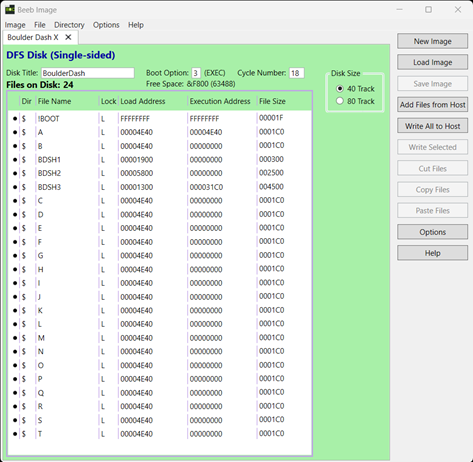
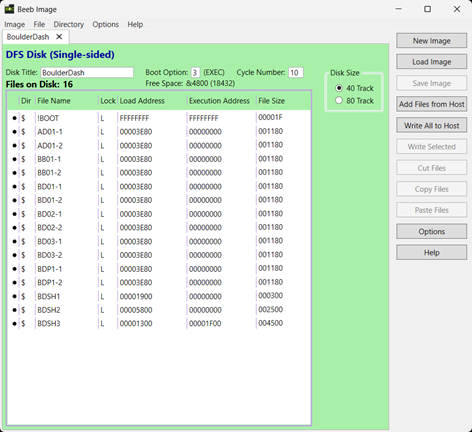
Documentation and utility updates

diff --git a/utilities/BDcavegen.py b/utilities/BDcavegen.py
@@ -30,21 +30,9 @@ import os
 from os import path
 import json
 import numpy as np
-from distutils.dir_util import copy_tree
-import image
 
-SPRITES_FILE = ""
-#SPRITES_FILE = "Bubble_Bobble_sprites.bin"
-#SPRITES_FILE = "Pacman_sprites.bin"
-#SPRITES_FILE = "Easter_sprites.bin"
-#COPY_FOLDER_FOR_ASM_BUILD = "caves/BoulderDashP1"
-#COPY_FOLDER_FOR_ASM_BUILD = "caves/BoulderDash01"
-#COPY_FOLDER_FOR_ASM_BUILD = "caves/BoulderDash02"
-#COPY_FOLDER_FOR_ASM_BUILD = "caves/BoulderDash03"
-COPY_FOLDER_FOR_ASM_BUILD = ""
-ATTEMPT_BD_COLOUR_MAP = False  #Attempt to map the colours in the BDCFF or use the config file scheme per cave
-TIDY_OUTPUT_FOLDER = True
-MOVE_BD_TO_DONE_FOLDER = True
+ATTEMPT_BD_COLOUR_MAP = True  #Attempt to map the colours in the BDCFF or use the config file scheme per cave
+MOVE_BD_TO_DONE_FOLDER = True  #True move to "done" folder, False leaves the source BDCFF file where it is
 
 ################################################################################
 #region Helper functions
@@ -467,20 +455,6 @@ def generate_caves(all_input_lines, output_subfolder):
         json.dump(output_all_caves_json, outfile, indent=4, sort_keys=True)
 
 #endregion
-################################################################################
-
-def poke_source_code_sprites(bd_sprites_file, sprites_address, output_subfolder):
-
-    #Open the source code file and poke the values into the required addresses
-    input_source_file = open(path.join(output_subfolder, "BDSH3"), "r+b")  #Open the file as binary
-
-    with open(bd_sprites_file, "rb") as input_sprites_file:  #Open sprites file as binary and read contents
-        prog_bytes = input_sprites_file.read()
-
-    input_source_file.seek(sprites_address)  #Navigate to the start address
-    input_source_file.write(prog_bytes)  #Replace the bytes from this position with the list of values
-
-    input_source_file.close()
 
 ################################################################################
 # Main Routine
@@ -488,6 +462,7 @@ if __name__ == '__main__':
 
     ### Config and file paths
     base_path = path.dirname(path.abspath(__file__))
+    base_path = path.join(base_path, "..")
     config_file = open(path.join(base_path, "config", "config.json"))
     config_settings = json.load(config_file)
     element_map = config_settings["element_map"]
@@ -518,8 +493,7 @@ if __name__ == '__main__':
     for a in parameter_list:
         addresses[a] = parameter_list[a]["address"]
 
-    BD_code_folder = path.join(base_path, "code")
-    BD_files_folder = path.join(base_path, "convert")
+    BD_files_folder = path.join(base_path, "bdcff_conversions")
 
     ### Process each BD file in the conversion folder
     for filename in os.listdir(BD_files_folder):
@@ -527,7 +501,7 @@ if __name__ == '__main__':
         if path.isfile(path.join(BD_files_folder, filename)) and filename[-2:].upper() == "BD":
 
             BD_filename = filename.split('.')[0]  #e.g. ArnoDash01 without the ".bd" extension
-            output_subfolder = path.join(base_path, "output", BD_filename)
+            output_subfolder = path.join(base_path, "build", BD_filename)
             if not os.path.exists(output_subfolder):
                 print(f"Creating output subfolder {output_subfolder}")
                 os.mkdir(output_subfolder)
@@ -542,56 +516,11 @@ if __name__ == '__main__':
             print(f"Generating caves for {BD_filename}")
             generate_caves(all_input_lines, output_subfolder)
 
-            #Shortcut way to get caves into next compiled asm build / ssd build
-            if COPY_FOLDER_FOR_ASM_BUILD != "":
-                copy_tree(output_subfolder, path.join(base_path, COPY_FOLDER_FOR_ASM_BUILD))
-
-            #Copy the source code for updating sprites and creation of SSD file
-            copy_tree(BD_code_folder, output_subfolder)
-
-            #Replace sprites if required
-            if SPRITES_FILE != "":
-                print(f"Updating sprites for {BD_filename} using {SPRITES_FILE}")
-                #Note sprites are defined at the start of the file (position 0)
-                bd_sprites_file = path.join(base_path, "sprites", SPRITES_FILE)
-                poke_source_code_sprites(bd_sprites_file, 0, output_subfolder)
-
             #Move BD file and cave definition json file to completed folder
             print(f"Completing definitions for {BD_filename}")
             BD_files_complete_folder = path.join(BD_files_folder, "done")
             if MOVE_BD_TO_DONE_FOLDER:
                 os.replace(input_file_name, path.join(BD_files_complete_folder, BD_filename + ".bd"))
             os.replace(path.join(output_subfolder, "cavedef.json"), path.join(BD_files_complete_folder, "json", BD_filename + ".json"))
-
-            #Create SSD file
-            print(f"Creating SSD for {BD_filename}")
-            ssd_filepath = path.join(base_path, "output", "ssd", BD_filename + ".ssd")
-            create_ssd(BD_filename, ssd_filepath, 40, 3)  #SSD with file name as title, 40 tracks and bootable
-            output_subfolder_relpath = path.join("output", BD_filename)
-            os.chdir(output_subfolder_relpath)
-
-            #Create INF files for each source file using config data (INF files needed for inserting into SSD)
-            for file in ssd_file_settings:
-                if path.exists(file):
-                    values = ssd_file_settings[file]
-                    with open(file + ".inf", 'w') as f:
-                        f.write("$.{: <9} {:0>8} {:0>8} L {:0>8}".format(file, values['load'], values['exec'], values['size']))
-
-            #Insert each file into the SSD in order per the config file
-            #This sequence is essential for the SSD to be editable using the Boulder Dash Editor
-            disk_image = image.DiskImage()
-            disk_image.set_disk(ssd_filepath)
-
-            for file in ssd_file_settings:
-                if path.exists(file):
-                    print(f"  Inserting {file}")
-                    disk_image.insert(file)
-
-            os.chdir("../../")
-            if TIDY_OUTPUT_FOLDER:
-                print(f"Tidying up output files for {BD_filename}")
-                for file in os.listdir(output_subfolder_relpath):
-                    os.remove(path.join(output_subfolder_relpath,file))
-                os.removedirs(output_subfolder_relpath)
             
             print(f"Completed {BD_filename}")

diff --git a/utilities/DecodeTiles.py b/utilities/DecodeTiles.py
@@ -32,8 +32,9 @@ OUTPUT_SPRITES_TO_FILE = False
 #Read bytes for tile sprites
 #This is at the start address in the source code, not need to position to a location - input_source_file.seek(pos)
 base_path = path.dirname(path.abspath(__file__))
+base_path = path.join(base_path, "..")
 if USE_INPUT_SPRITES_FILE:
-    BD_input_sprites_folder = path.join(base_path, "convert", "sprites")
+    BD_input_sprites_folder = path.join(base_path, "sprites")
     sprites_bytes = []
     for i in range(32):  #First 32 bytes are the space character, all zeros
         sprites_bytes.append(0)
@@ -43,14 +44,14 @@ if USE_INPUT_SPRITES_FILE:
                 if byte != '':
                     sprites_bytes.append(int(byte))
 else:
-    BD_code_folder = path.join(base_path, "code")
+    BD_code_folder = path.join(base_path, "code_bin")
     input_source_file = open(path.join(BD_code_folder, "BDSH3"), "rb")  #Open the file as binary
     sprites_bytes = input_source_file.read(NUM_SPRITE_BYTES)
     input_source_file.close()
 
 #Output to file if required
 if OUTPUT_SPRITES_TO_FILE:
-    output_subfolder = path.join(base_path, "output", "sprites")
+    output_subfolder = path.join(base_path, "build")
     output_file_name = path.join(output_subfolder, f"sprites_{datetime.now().strftime('%Y%m%d_%H%M')}.bin")
     output_file = open(output_file_name, "wb")
     for byte in sprites_bytes:

diff --git a/utilities/CreateMapHtml.py b/utilities/CreateMapHtml.py
@@ -147,6 +147,7 @@ if __name__ == '__main__':
 
     ### Config and file paths
     base_path = path.dirname(path.abspath(__file__))
+    base_path = path.join(base_path, "..")
     config_file = open(path.join(base_path, "config", "config.json"))
     config_settings = json.load(config_file)
     element_map = config_settings["element_map"]
@@ -167,9 +168,9 @@ if __name__ == '__main__':
     other_params = ["AmoebaTime", "MagicWallTime", "SlimePermeability", "Bombs", "ZeroGravityTime"]
 
     #Add files / folders needed
-    html_folder = path.join(base_path, "convert", "done", "html")
+    html_folder = path.join(base_path, "bdcff_conversions", "done", "html")
     images_folder = path.join(html_folder, "images")
-    json_cave_list = json.load(open(path.join(base_path, "convert", "done", "json", JSON_CAVE_DEF)))
+    json_cave_list = json.load(open(path.join(base_path, "bdcff_conversions", "done", "json", JSON_CAVE_DEF)))
     sprite_json = json.load(open(path.join(base_path, "sprites", "Text_sprites.json")))
 
     title = JSON_CAVE_DEF.split('.')[0]

diff --git a/utilities/BDdefgen.py b/utilities/BDdefgen.py
@@ -76,14 +76,15 @@ if __name__ == '__main__':
 
     ### Config and file paths
     base_path = path.dirname(path.abspath(__file__))
-    config_file = open(path.join(base_path, "config/config.json"))
+    base_path = path.join(base_path, "..")
+    config_file = open(path.join(base_path, "config", "config.json"))
     config_settings = json.load(config_file)
     element_map = config_settings["element_map"]
     element_list = list(element_map.keys())
     parameter_list = config_settings["parameters"]
 
     cave_letters = ['A','B','C','D','Q','E','F','G','H','R','I','J','K','L','S','M','N','O','P','T']
-    BD_caves_folder = path.join(base_path, "output", CAVE_FILE_FOLDER)
+    BD_caves_folder = path.join(base_path, "build", CAVE_FILE_FOLDER)
 
     #Open bd file to write to
     output_file_name = path.join(BD_caves_folder, BD_caves_folder + ".bd")

diff --git a/bd_build_all.py b/bd_build_all.py
@@ -49,7 +49,7 @@ if __name__ == '__main__':
 
     ### Config and file paths
     base_path = path.dirname(path.abspath(__file__))
-    config_file = open(path.join(base_path, "config/config.json"))
+    config_file = open(path.join(base_path, "config", "config.json"))
     config_settings = json.load(config_file)
     versions = config_settings["versions"]
     ssd_file_settings = config_settings["ssd_file_settings"]

diff --git a/README.md b/README.md
@@ -1,12 +1,13 @@
 # BBC/Electron Boulder Dash enhancements and utilities
 
 This repository includes the following:
-- Enhanced version of the Boulder Dash game (6502 assembler and build programs) which allows new caves to be played. The caves and difficulty levels from the original game are also supported.
-- Addition of the new Boulder Dash 2 elements, slime and growing wall to support that version of the game
-- Addition of bomb element, zero-gravity and non-steelwall borders in the homebrew '+1' version
+- An enhanced version of the Boulder Dash game (6502 assembler and build programs) which allows new caves to be played. The caves and difficulty levels from the original game is maintained.
+- Addition of Boulder Dash 2 elements, slime and growing wall to support that version of the game.
+- Addition of bomb element, zero-gravity and non-steelwall borders in the homebrew '+1' version.
+- All versions (Boulder Dash 1, 2, 3, +1, Arno Dash 1) are playable from a single SSD.
 - Cave file generator which creates caves from Boulder Dash cave format files (BDCFFs) developed by fans of the game.
-- Cave editor to load and edit caves or create completely new ones
-- Sprite editor to change the game sprites and tiles
+- Cave editor to load and edit caves or create completely new ones.
+- Sprite editor to change the game sprites and tiles.
 - Sprite set decoder for converting bytes into their sprite tiles and displaying the results.
 
 More information about this project can be found at: [Stardot: More Boulder Dash!](https://stardot.org.uk/forums/viewtopic.php?t=28372)
@@ -14,7 +15,9 @@ More information about this project can be found at: [Stardot: More Boulder Dash
 ## Enhancements
 
 ### Loading cave files
-Caves are no longer held within the main program, instead they are defined as individual cave files (letters A-T) which are loaded into the game. This allows completely new caves to be created and played with the original game engine.
+Caves are no longer held within the main program, instead they are defined as [individual cave files (letters A-T)](./caves_bin/) allowing for completely new caves to be created and played with the game engine.
+
+To enable all caves for each version of Boulder Dash to fit on a single SSD, they are combined into two files per version (two files are needed to allow them to fit into memory).
 
 ![Files in Beeb Image](./docs/game-files.png)
 
@@ -48,28 +51,20 @@ In the map layout of 400 bytes, each tile (dirt, boulder, diamond etc) is a nibb
 ### Original game difficulty levels
 The original version of the game is preserved by having the difficulty levels use the 'standard' pseudo-random method of plotting boulders, diamonds, etc in a cave (same method used by the original Boulder Dash developer, Peter Liepa).
 
-- This is a compact approach for creating the original caves and replaces the method used by the coder of the Acorn conversion, Andrew Bennett.
+- This is a compact approach for creating the original caves and replaces the method used by the author of the Acorn conversion, Andrew Bennett.
 - If the cave uses this method to create the layout, the non-random 'fixed' tiles are applied first, followed by pseudo-random generated tiles which are plotted over any of the non-fixed or 'null' tiles.
 - A pseudo-random value is calculated by a function using the seed value for the cave difficulty level. It is compared with each of the 4 tile probability values to determine whether to draw those tiles or not.
 - The parameters needed for the pseudo-random function are held in cave files. The map data is used for the non-random 'fixed' tiles (e.g. walls).
 - Entirely new caves can be created using this method if required. It is also possible to mix caves which use the pseudo-random method with those that do not.
 
 Below is original cave B. The fixed tiles are the walls and passage-ways of spaces. All the other tiles are plotted using the pseudo-random method. Where no random tile is determined in a tile position, a default is used usually the dirt tile.
+
 ![Original cave B](./docs/cave-b-example.png)
 
-### Code and build
-The assembler code is compiled using ACME and an SSD file including the caves is produced by a Python build script. Amend the `SSD_NAME` value in this script to switch between producing Boulder Dash 1, 2, etc.
-- [main.asm is the game engine assembler code](./asm/main.asm)
-- [BDcompileasm.py is the Python SSD file build script](./BDcompileasm.py)
-- [BoulderDash01 folder has the cave files for Boulder Dash](./caves/BoulderDash01/)
-- [BoulderDash02 folder has the cave files for Boulder Dash 2](./caves/BoulderDash02/)
-
-The output from this process is kept in sub-folders.
-- [Build output includes file BDSH3 compiled from main.asm](./output/build/)
-- [SSD output contains the complete game](./output/ssd)
+### Building the game SSD file
+The assembler code in `main.asm` and linked source `asm` files are compiled using ACME using the [build script](./bd_build_all.py). It adds the cave files and creates the [completed game in the ssd folder](./ssd/BoulderDash.ssd).
 
 ## Cave file generator
-
 This is a Python program for creating playable caves from Boulder Dash cave format files (BDCFFs) which can be found online. A substantial collection can be found at [Arno's Boulder Dash fansite](https://www.boulder-dash.nl/).
 
 ### Boulder Dash cave format files
@@ -80,12 +75,9 @@ BDCFFs are a type of structured file which documents the cave parameters and map
 ### Generator features
 The cave generator does the following:
 - Produces all the cave files for the BBC/Electron Boulder Dash game engine from a single BDCFF. This is done by parsing and mapping the data in the BDCFF files.
-- Combines these caves with the game engine (created earlier) and other startup code to produce an SSD file ready to play.
-- Optionally allows the original sprites to be replaced with different ones (some sprite files are included in this repository).
 - Produces a JSON file for the BDCFF (JSON being a modern structured and readable alternative).
-- Produces multiple SSD files if given multiple BDCFFs.
 
-A [config file](./config/config.json) is used to define the elements for mapping purposes and contains the data needed to produce SSD files. Colours are also mapped where possible. Where there is no colour mapping possible, a colour scheme for the cave is used instead.
+A [config file](./config/config.json) is used to define the elements for mapping purposes. Colours are also mapped where possible or a colour scheme for the cave is used instead.
 
 Colours are used as follows for the sprites in the game - there are 3 definable colour groups applied to each cave used to paint the elements (black is always present).
 -  Group 1 for most of titanium walls, rocks, amoeba; part of rockford, diamonds
@@ -95,12 +87,13 @@ Colours are used as follows for the sprites in the game - there are 3 definable 
 The butterflies and fireflies contain a bit of each colour.
 
 ### Usage
-- The game engine and related startup code used in this build is taken from the [code folder](./code/).
-- If there is a new assembled program which should be used for cave generation, replace [BDSH3](./code/BDSH3) with the compiled version from the [build output folder](./output/build/).
-- Copy one or more BDCFFs into the [convert folder](./convert/).
-- Optionally replace the original sprites with a custom set by amending the SPRITES_FILE value in the [BDcavegen.py python script](./BDcavegen.py) to point to a sprite file in [sample sprites folder](./sprites/). 
-- Run the script.
-- The resulting SSDs are located in [SSD output](./output/ssd). Converted BDCFFs are moved to the [done sub-folder](./convert/done/).
+- Copy one or more BDCFFs into the [conversion folder](./bdcff_conversions/) and run the [generation script](./utilities/BDcavegen.py).
+- The binary format caves are in the [build folder](./build/). Converted BDCFFs are moved to the [done sub-folder](./bdcff_conversions/done/).
+
+## Create HTML Boulder Dash maps
+An HTML file with images of Boulder Dash caves can be created using the [Python HTML conversion script](./utilities/CreateMapHtml.py). It uses the JSON file created from the generation step above as the main input. An example of the result is below.
+
+![Boulder Dash 1 cave B](./bdcff_conversions/done/html/images/BoulderDash01_caveB.png)
 
 ## Cave editor
 An easy way to create or edit a cave is to use the [cave editor](./editor/). The editor includes a help page which lists the main functions and the keys needed to use them.
@@ -175,7 +168,7 @@ Unrelated to the sprite editor, there is a sprite decoder utility program for di
 
 ![Sample sprite output](./docs/sample-sprite.png)
 
-Although largely replaced with a full sprite editor now, this program will accept a csv file with sprite byte values to display and output to a sprite set file. See [DecodeTiles.py](./DecodeTiles.py) for more information.
+Although largely replaced with a full sprite editor now, this program will accept a csv file with sprite byte values to display and output to a sprite set file. See [DecodeTiles.py](./utilities/DecodeTiles.py) for more information.
 
 ## Acknowledgements
 The information and code shared by the following developers and sources is gratefully acknowledged:
